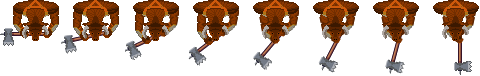
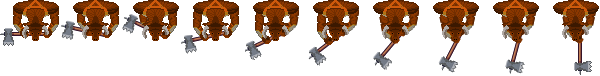
se mejora animacion y se agrgan animaciones de los 2 poderes del personaje

diff --git a/sand/index.html b/sand/index.html
@@ -18,23 +18,34 @@ var game = new Phaser.Game(window.innerWidth * window.devicePixelRatio, window.i
 
 function preload() {
 
-    game.load.spritesheet('minotaur_warrior', 'assets/warrior_minotaur.png', 60, 76, 8);
+    //game.load.spritesheet('minotaur_warrior', 'assets/warrior_minotaur.png', 60, 76, 10);
+    game.load.spritesheet('minotaur_warrior', 'assets/warrior_minotaur_test.png', 60, 76, 15);
     game.load.tilemap('duelMap', 'assets/duel_map.json', null, Phaser.Tilemap.TILED_JSON);
     game.load.image('tiles', 'assets/maptiles.png');
 
 }
-
-var player;
-var armR;
-var armL;
-var cursors;
+//muy importante para hacer escalado de forma correcta
 var scaleRatio = window.devicePixelRatio*3;
+//objetos que se renderizan
 var map;
 var layer;
+var player;
+//controles
 var up;
 var down;
 var left;
 var right;
+var spell1;
+var spell2;
+var spell3;
+var spell4;
+var spell5;
+var consumable1;
+var consumable2;
+var shop;
+var cancel;
+
+var lastKeyPressed = "";
 
 function create() {
 
@@ -57,25 +68,43 @@ function create() {
     
     //  We need to enable physics on the player
     game.physics.arcade.enable(player);
-    //13 y -34 representan la diferencia de pixeles que se pretende eliminar para poner el cuerpo fisico solo en el personaje, no el arma ni nada más
-    player.body.setSize(46, 41, 12 * (1 - player.anchor.x) * scaleRatio, -35 * (player.anchor.y) * scaleRatio);
-    player.body.collideWorldBounds = true;
 
+    //hay que asegurarse que el body quede cuadrado puesto que no se puede rotar
+    //13 y -34 representan la diferencia de pixeles que se pretende eliminar para poner el cuerpo fisico solo en el personaje, no el arma ni nada más
+    player.body.setSize(46, 46, 12 * (1 - player.anchor.x) * scaleRatio, -40 * (player.anchor.y) * scaleRatio);
+    player.body.collideWorldBounds = true;
     player.scale.setTo(scaleRatio, scaleRatio);
 
-    player.animations.add('attack', [0, 1, 2, 3, 4, 5, 6, 7, 5, 2, 0], 20);
+    //animations
+    var attackSpeed=600;
+    player.animations.add('attack', [0, 1, 2, 3, 4, 5, 6, 7, 8, 9, 7, 4, 0], (13*attackSpeed)/200);
+    player.animations.add('spell1', [0, 11, 12, 13, 14, 12, 0], 10);
+    player.animations.add('spell4', [0, 10, 10, 10, 10, 10, 10, 0], 10);
+
+    player.animations.getAnimation("spell1").onComplete.add(changeAction);
+    player.animations.getAnimation("spell4").onComplete.add(changeAction);
 
     //  Our controls.
     up = game.input.keyboard.addKey(Phaser.Keyboard.W);
     down = game.input.keyboard.addKey(Phaser.Keyboard.S);
     left = game.input.keyboard.addKey(Phaser.Keyboard.A);
     right = game.input.keyboard.addKey(Phaser.Keyboard.D);
+    spell1 = game.input.keyboard.addKey(Phaser.Keyboard.Q);
+    spell2 = game.input.keyboard.addKey(Phaser.Keyboard.E);
+    spell3 = game.input.keyboard.addKey(Phaser.Keyboard.F);
+    spell4 = game.input.keyboard.addKey(Phaser.Keyboard.R);
+    spell5 = game.input.keyboard.addKey(Phaser.Keyboard.V);
+    consumable1 = game.input.keyboard.addKey(Phaser.Keyboard.ONE);
+    consumable2 = game.input.keyboard.addKey(Phaser.Keyboard.TWO);
+    shop = game.input.keyboard.addKey(Phaser.Keyboard.I);
+    cancel = game.input.keyboard.addKey(Phaser.Keyboard.G);
 
-    game.camera.follow(player, Phaser.Camera.FOLLOW_LOCKON, 0.1, 0.1);
+    //camera
+    game.camera.follow(player, Phaser.Camera.FOLLOW_LOCKON, 0, 0);
     game.camera.setBoundsToWorld();
-    
 }
 
+var previousAnim;
 function update() {
     //  Reset the player's velocity
     player.body.velocity.x = 0;
@@ -94,16 +123,58 @@ function update() {
         player.body.y += 30/scaleRatio;
     }
 
+    if(cancel.isDown){
+        lastKeyPressed = "";
+    }
+
     if(game.input.mousePointer.isDown){
-        player.play('attack');
+        switch(lastKeyPressed){
+            case "q":
+                player.play('spell1');
+                previousAnim = "spell1";
+                break;
+            case "r":
+                player.play('spell4');
+                previousAnim = "spell4";
+                break;
+            default:
+                player.play('attack');
+                previousAnim = "attack";
+                break;
+        }
     }
     player.rotation = game.physics.arcade.angleToPointer(player) - (Math.PI / 2);
-    //player.rotation += 0.05;
+
+    //input con tiempo de debounce .downDuration(200)
+    if (spell1.isDown){
+        /*if(lastKeyPressed != "q"){
+            lastKeyPressed = "q";
+        }else{
+            lastKeyPressed = "";
+        }*/
+		lastKeyPressed = "q";
+	} else if(spell4.isDown){
+        /*if(lastKeyPressed != "r"){
+            lastKeyPressed = "r";
+        }else{
+            lastKeyPressed = "";
+        }*/
+        lastKeyPressed = "r";
+    }
+
+    if(player.animations.currentAnim.isFinished){
+        player.frame = 0;
+    }
+}
+
+function changeAction(){
+    lastKeyPressed = "";
 }
 
 function render() {
     game.debug.cameraInfo(game.camera, 32, 10);
     game.debug.spriteCoords(player, 32, 150);
+    game.debug.bodyInfo(player, 32, 300);
     //game.debug.body(player);
 }
 

diff --git a/sand/js/character/Spell.js b/sand/js/character/Spell.js
@@ -1,0 +1,14 @@
+class Spell{
+    constructor(name, effect, damageType, range, forEnemy, keyBinding){
+        this.name = name;
+        this.effect = effect;
+        this.damageType = damageType;
+        this.range = range;
+        this.forEnemy = forEnemy;
+        this.keyBinding = keyBinding;
+    }
+
+    isUlti(){
+        return this.keyBinding == "r";
+    }
+}

diff --git a/sand/js/character/Pasive.js b/sand/js/character/Pasive.js
@@ -1,0 +1,13 @@
+class Pasive{
+    constructor(name, effect, damageType, range, forEnemy){
+        this.name = name;
+        this.effect = effect;
+        this.damageType = damageType;
+        this.range = range;
+        this.forEnemy = forEnemy;
+    }
+
+    isAura(){
+        return this.range > 0;
+    }
+}
